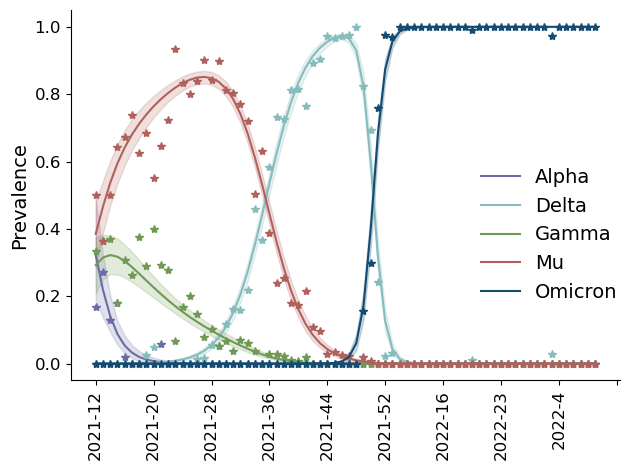
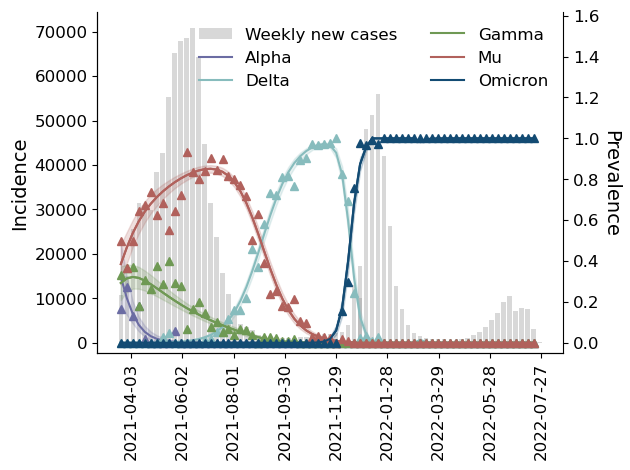
feat: updated fig 2. added incidence and secondary axis y

diff --git a/plots/results_genomics.py b/plots/results_genomics.py
@@ -5,9 +5,12 @@ Created on Fri Oct 21 2022
 @author: ntorresd
 """     
 import yaml
+import sys
 import pandas as pd
 import datetime
+from datetime import datetime
 import matplotlib.pyplot as plt
+import mpl_axes_aligner as mpla
 import seaborn as sns
 from met_brewer import met_brew
 
@@ -16,10 +19,15 @@ config = yaml.load(open("config.yml", "r"))["default"]
 DATA_PATH = config['PATHS']['DATA_PATH']
 OUT_PATH = config['PATHS']['OUT_PATH'].format(dir = 'genomics')
 DATE_GENOMICS = config['UPDATE_DATES']['GENOMICS']
+UTILS_PATH = config['PATHS']['UTILS_PATH'].format(dir = 'severe_outcomes')
 
 plt.style.use(config['PATHS']['PLOT_STYLE'])
 prop_cycle = plt.rcParams['axes.prop_cycle']
 colors = prop_cycle.by_key()['color']
+
+# Import useful functions
+sys.path.append(UTILS_PATH)
+import utilities_severity as ut
 
 # Load data
 ## Variants
@@ -29,77 +37,142 @@ df_variants['date'] = pd.to_datetime(df_variants['date'])
 df_results = pd.read_csv(OUT_PATH + 'theta.csv')
 df_pivot =  pd.read_csv(DATA_PATH + 'variants_pivot.csv').rename(columns = {'t' : 'week', 'week' : 'week_name'})
 df_results = df_results.merge(df_pivot[['week', 'week_name']], on = 'week')
-df_results['date'] = df_results.week_name.apply(lambda date: datetime.datetime.strptime(date + '-1', "%Y-%W-%w"))
+df_results['week_date'] = df_results.week_name.apply(lambda date: datetime.strptime(date + '-1', "%Y-%W-%w"))
+df_results = df_results.sort_values(by = 'week_date')
+## Cases
+df_confirmed_bogota = pd.read_csv(DATA_PATH + 'confirmed_cases.csv')
+df_confirmed_bogota = df_confirmed_bogota.astype({'age':int})
+df_confirmed_bogota['onset'] = pd.to_datetime(df_confirmed_bogota['onset'], errors='coerce')
+df_confirmed_bogota['death'] = pd.to_datetime(df_confirmed_bogota['death'], errors='coerce')
 
-def plot_multinomial(ax):
+n_ticks = 10     
+        
+def plot_multinomial(ax, limits):
+        
+        # Weekly counts - Incidence
+        date1 = datetime.strptime(limits[0] + '-1', '%Y-%W-%u')
+        date2 = datetime.strptime(limits[1] + '-1', '%Y-%W-%u')
+        df_incidence = df_confirmed_bogota[df_confirmed_bogota['onset'].between(date1,date2)]
+        df_incidence['week'] = df_confirmed_bogota['onset'].apply(lambda date: date.strftime('%Y-%W'))
+        df_incidence_count = ut.counts(df_incidence, var='week',columns=['week', 'cases'])
+        df_incidence_count['week_date'] = df_incidence_count['week'].apply(lambda date: datetime.strptime(date + '-1', '%Y-%W-%u'))
+        df_incidence_count = df_incidence_count.sort_values(by = 'week_date')
+        
+        l1 = ax.bar(df_incidence_count['week_date'], df_incidence_count['cases'], 
+               alpha = 0.3, color = "grey", width=5.3, label = 'Weekly new cases')
+        ax.set_ylabel('Incidence')
+        ax.tick_params(axis='x', rotation=90)
+        ax.xaxis.set_major_locator(plt.MaxNLocator(n_ticks))
+        labs = ['Weekly new cases'] 
+        
+        # Prevalence - Observed        
+        ax1 = ax.twinx()
         stat = "mean"
+        
         n = 0 
         variant = 'Alpha'
         mask = (df_results.stat == stat) & (df_results.variant == variant)
         mask1 = (df_results.stat == 'q025') & (df_results.variant == variant)
         mask2 = (df_results.stat == 'q975') & (df_results.variant == variant)
-        ax.plot(df_results[mask].week, df_results[mask].theta, color  = colors[n], label = variant)
-        ax.plot(df_results[mask].week, df_results[mask][variant]/df_results[mask].weekly_count_variants, 
-                color  = colors[n], marker = '*', linestyle = '')
-        ax.fill_between(df_results[mask].week, df_results[mask1].theta, df_results[mask2].theta,
+        ax1.plot(df_results[mask].week_date, df_results[mask].theta, color  = colors[n], label = variant, marker = '')
+        ax1.fill_between(df_results[mask].week_date, df_results[mask1].theta, df_results[mask2].theta,
                         color  = colors[n], alpha = 0.2)
-                
-        n += 1
+        labs.append(variant)
+        
+        n = 1 
         variant = 'Delta'
         mask = (df_results.stat == stat) & (df_results.variant == variant)
         mask1 = (df_results.stat == 'q025') & (df_results.variant == variant)
         mask2 = (df_results.stat == 'q975') & (df_results.variant == variant)
-        ax.plot(df_results[mask].week, df_results[mask].theta, color  = colors[n], label = variant)
-        ax.plot(df_results[mask].week, df_results[mask][variant]/df_results[mask].weekly_count_variants, 
-                color  = colors[n], marker = '*', linestyle = '')
-        ax.fill_between(df_results[mask].week, df_results[mask1].theta, df_results[mask2].theta,
+        ax1.plot(df_results[mask].week_date, df_results[mask].theta, color  = colors[n], label = variant, marker = '')
+        ax1.fill_between(df_results[mask].week_date, df_results[mask1].theta, df_results[mask2].theta,
                         color  = colors[n], alpha = 0.2)
+        labs.append(variant)
         
-        n += 1
+        n = 2
         variant = 'Gamma'
         mask = (df_results.stat == stat) & (df_results.variant == variant)
         mask1 = (df_results.stat == 'q025') & (df_results.variant == variant)
         mask2 = (df_results.stat == 'q975') & (df_results.variant == variant)
-        ax.plot(df_results[mask].week, df_results[mask].theta, color  = colors[n], label = variant)
-        ax.plot(df_results[mask].week, df_results[mask][variant]/df_results[mask].weekly_count_variants, 
-                color  = colors[n], marker = '*', linestyle = '')
-        ax.fill_between(df_results[mask].week, df_results[mask1].theta, df_results[mask2].theta,
+        ax1.plot(df_results[mask].week_date, df_results[mask].theta, color  = colors[n], label = variant, marker = '')
+        ax1.fill_between(df_results[mask].week_date, df_results[mask1].theta, df_results[mask2].theta,
                         color  = colors[n], alpha = 0.2)
-    
-        n += 1
+        labs.append(variant)
+        
+        n = 3
         variant = 'Mu'
         mask = (df_results.stat == stat) & (df_results.variant == variant)
         mask1 = (df_results.stat == 'q025') & (df_results.variant == variant)
         mask2 = (df_results.stat == 'q975') & (df_results.variant == variant)
-        ax.plot(df_results[mask].week, df_results[mask].theta, color  = colors[n], label = variant)
-        ax.plot(df_results[mask].week, df_results[mask][variant]/df_results[mask].weekly_count_variants, 
-                color  = colors[n], marker = '*', linestyle = '')
-        ax.fill_between(df_results[mask].week, df_results[mask1].theta, df_results[mask2].theta,
+        ax1.plot(df_results[mask].week_date, df_results[mask].theta, color  = colors[n], label = variant, marker = '')
+        ax1.fill_between(df_results[mask].week_date, df_results[mask1].theta, df_results[mask2].theta,
                         color  = colors[n], alpha = 0.2)
+        labs.append(variant)
         
-        n += 1
+        n = 4
         variant = 'Omicron'
         mask = (df_results.stat == stat) & (df_results.variant == variant)
         mask1 = (df_results.stat == 'q025') & (df_results.variant == variant)
         mask2 = (df_results.stat == 'q975') & (df_results.variant == variant)
-        ax.plot(df_results[mask].week, df_results[mask].theta, color  = colors[n], label = variant)
-        ax.plot(df_results[mask].week, df_results[mask][variant]/df_results[mask].weekly_count_variants, 
-                color  = colors[n], marker = '*', linestyle = '')
-        ax.fill_between(df_results[mask].week, df_results[mask1].theta, df_results[mask2].theta,
+        ax1.plot(df_results[mask].week_date, df_results[mask].theta, color  = colors[n], label = variant, marker = '')
+        ax1.fill_between(df_results[mask].week_date, df_results[mask1].theta, df_results[mask2].theta,
                         color  = colors[n], alpha = 0.2)
-        ax.tick_params(axis='x', rotation=90)
-        n_ticks = 11
-        weeks = (df_results.week_name).unique()
-        print(min(weeks))
-        print(len(weeks))
-        ax.xaxis.set_major_locator(plt.MaxNLocator(n_ticks))        
-        no_ticks = ax.get_xticks().astype(int)
-        if min(no_ticks) <0:
-                no_ticks_f = [0]
-        else:
-                no_ticks_f = []
-        no_ticks_f = no_ticks_f + [n for n in no_ticks if ((n >= 0) & (n < len(weeks)))]
-        ax.set_xticklabels(weeks[no_ticks_f])
+        labs.append(variant)
+        
+        # Multinomial model
+        n = 0 
+        variant = 'Alpha'
+        mask = (df_results.stat == stat) & (df_results.variant == variant)
+        mask1 = (df_results.stat == 'q025') & (df_results.variant == variant)
+        mask2 = (df_results.stat == 'q975') & (df_results.variant == variant)
+        ax1.plot(df_results[mask].week_date, df_results[mask][variant]/df_results[mask].weekly_count_variants, 
+                color  = colors[n], marker = '^', linestyle = '')
+        
+        n = 1
+        variant = 'Delta'
+        mask = (df_results.stat == stat) & (df_results.variant == variant)
+        mask1 = (df_results.stat == 'q025') & (df_results.variant == variant)
+        mask2 = (df_results.stat == 'q975') & (df_results.variant == variant)
+        ax1.plot(df_results[mask].week_date, df_results[mask][variant]/df_results[mask].weekly_count_variants, 
+                color  = colors[n], marker = '^', linestyle = '')
+        n = 2
+        variant = 'Gamma'
+        mask = (df_results.stat == stat) & (df_results.variant == variant)
+        mask1 = (df_results.stat == 'q025') & (df_results.variant == variant)
+        mask2 = (df_results.stat == 'q975') & (df_results.variant == variant)
+        l4 = ax1.plot(df_results[mask].week_date, df_results[mask].theta, color  = colors[n], label = variant)
+        ax1.plot(df_results[mask].week_date, df_results[mask][variant]/df_results[mask].weekly_count_variants, 
+                color  = colors[n], marker = '^', linestyle = '')
+    
+        n = 3
+        variant = 'Mu'
+        mask = (df_results.stat == stat) & (df_results.variant == variant)
+        mask1 = (df_results.stat == 'q025') & (df_results.variant == variant)
+        mask2 = (df_results.stat == 'q975') & (df_results.variant == variant)
+        l5 = ax1.plot(df_results[mask].week_date, df_results[mask].theta, color  = colors[n], label = variant)
+        ax1.plot(df_results[mask].week_date, df_results[mask][variant]/df_results[mask].weekly_count_variants, 
+                color  = colors[n], marker = '^', linestyle = '')
+        
+        n = 4
+        variant = 'Omicron'
+        mask = (df_results.stat == stat) & (df_results.variant == variant)
+        mask1 = (df_results.stat == 'q025') & (df_results.variant == variant)
+        mask2 = (df_results.stat == 'q975') & (df_results.variant == variant)
+        l6 = ax1.plot(df_results[mask].week_date, df_results[mask].theta, color  = colors[n], label = variant)
+        ax1.plot(df_results[mask].week_date, df_results[mask][variant]/df_results[mask].weekly_count_variants, 
+                color  = colors[n], marker = '^', linestyle = '')
+                
+        
+        ax1.tick_params(axis='x', rotation=90)
+        ax1.xaxis.set_major_locator(plt.MaxNLocator(n_ticks))
+        ax1.spines.right.set_visible(True)
+        ax1.set_ylabel('Prevalence', rotation = 270, labelpad = 15)
+        
+        handles = ax.containers + ax1.get_lines()
+        labels1, handles1 = ax1.get_legend_handles_labels()
+        
+        ax1.legend(handles, labs, loc='upper right', frameon=False, fontsize=12, ncol = 2)
+        mpla.align.yaxes(ax, 0, ax1, 0, 0.03)
 
 # Prevalence histogram
 def plot_prevalence(ax):

diff --git a/plots/overview.py b/plots/overview.py
@@ -54,14 +54,14 @@ df_prop = pd.crosstab(index=df_confirmed_bogota['age_group'],
                             columns=df_confirmed_bogota['sex'],
                             normalize="index")*100                
 def plot_pyramid(ax):
-    hist_f = ax.barh(df_female['age_group'], -df_female['counts'], align='center', label='female')
-    hist_m = ax.barh(df_male['age_group'], df_male['counts'], align='center', label='male')
+        hist_f = ax.barh(df_female['age_group'], -df_female['counts'], align='center', label='female')
+        hist_m = ax.barh(df_male['age_group'], df_male['counts'], align='center', label='male')
 
-    ax.bar_label(hist_m, labels=['{:.1f}%'.format(prop) for prop in df_prop['M'].round(1)], label_type='edge')
-    ax.bar_label(hist_f, labels=['{:.1f}%'.format(prop) for prop in df_prop['F'].round(1)], label_type='edge')
+        ax.bar_label(hist_m, labels=['{:.1f}%'.format(prop) for prop in df_prop['M'].round(1)], label_type='edge')
+        ax.bar_label(hist_f, labels=['{:.1f}%'.format(prop) for prop in df_prop['F'].round(1)], label_type='edge')
 
-    ticks =  ax.get_xticks()
-    ax.set_xticklabels([int(abs(tick)) for tick in ticks])
+        ticks =  ax.get_xticks()
+        ax.set_xticklabels([int(abs(tick)) for tick in ticks])
 
 # Incidences 
 df = df_confirmed_bogota
@@ -82,22 +82,22 @@ df_deaths_60p = ut.counts(df[mask_death & mask_60p], var='death',columns=['date'
 df_deaths_60p['deaths_cum'] = df_deaths_60p['deaths'].cumsum().values
 
 def plot_cases_death_cum(ax):
-    ln1 = ax.plot(df_cases_all['date'], df_cases_all['cases'], label='cases all')
-    ln2 = ax.plot(df_cases_60p['date'], df_cases_60p['cases'], label='cases 60+')
+        ln1 = ax.plot(df_cases_all['date'], df_cases_all['cases'], label='cases all')
+        ln2 = ax.plot(df_cases_60p['date'], df_cases_60p['cases'], label='cases 60+')
 
-    # fig, ax2 =plt.subplots(figsize=(7.5, 5))
-    ax_twin = ax.twinx()
+        # fig, ax2 =plt.subplots(figsize=(7.5, 5))
+        ax_twin = ax.twinx()
 
-    ln3 = ax_twin.plot(df_deaths_all['date'], df_deaths_all['deaths_cum'], label='cumulative deaths all', linestyle='dashed')
-    ln4 = ax_twin.plot(df_deaths_60p['date'], df_deaths_60p['deaths_cum'], label='cumulative deaths 60+', linestyle='dashed')
+        ln3 = ax_twin.plot(df_deaths_all['date'], df_deaths_all['deaths_cum'], label='cumulative deaths all', linestyle='dashed')
+        ln4 = ax_twin.plot(df_deaths_60p['date'], df_deaths_60p['deaths_cum'], label='cumulative deaths 60+', linestyle='dashed')
 
-    lns = ln1 + ln2 + ln3 + ln4
-    labs = [l.get_label() for l in lns]
+        lns = ln1 + ln2 + ln3 + ln4
+        labs = [l.get_label() for l in lns]
 
-    ax.tick_params(axis='x', rotation=45)
-    ax.set_ylabel('Confirmed cases')
+        ax.tick_params(axis='x', rotation=45)
+        ax.set_ylabel('Confirmed cases')
 
-    ax_twin.legend(lns, labs, loc='upper left', frameon=False, fontsize=12)
-    ax_twin.spines.right.set_visible(True) #This was set as False by default in the .mpstyle file
-    ax_twin.tick_params(axis='x', rotation=45)
-    ax_twin.set_ylabel('Deaths')
+        ax_twin.legend(lns, labs, loc='upper left', frameon=False, fontsize=12)
+        ax_twin.spines.right.set_visible(True) #This was set as False by default in the .mpstyle file
+        ax_twin.tick_params(axis='x', rotation=45)
+        ax_twin.set_ylabel('Deaths')

diff --git a/plots/figure_2.py b/plots/figure_2.py
@@ -21,15 +21,14 @@ sys.path.append(SCRIPTS_PATH)
 import results_genomics as results_genomics
 
 # Multinomial regression
-fig, ax = plt.subplots(1,2, figsize = (12, 6))
+fig, ax = plt.subplots(1,2, figsize = (13, 6))
 axi = ax[0]
-results_genomics.plot_multinomial(axi)
-axi.set_ylabel('Prevalence')
-axi.legend()
+results_genomics.plot_multinomial(axi, ['2021-12', '2022-30'])
 axi.set_title('a.')
 
 # Heat map
 axi = ax[1]
 results_genomics.plot_heatmap(axi, n = 200)
 axi.set_title('b.')
+fig.tight_layout()
 fig.savefig(FIG_PATH + 'figure_2.png')

diff --git a/plots/individual_plots.py b/plots/individual_plots.py
@@ -33,9 +33,7 @@ import results_genomics as results_genomics
 
 # Multinomial
 fig, ax = plt.subplots()
-results_genomics.plot_multinomial(ax)
-ax.set_ylabel('Prevalence')
-fig.legend(loc = 'center right')
+results_genomics.plot_multinomial(ax, ['2021-12', '2022-30'])
 fig.savefig(FIG_PATH + 'variants_multinomial.png')
 
 # Prevalence
